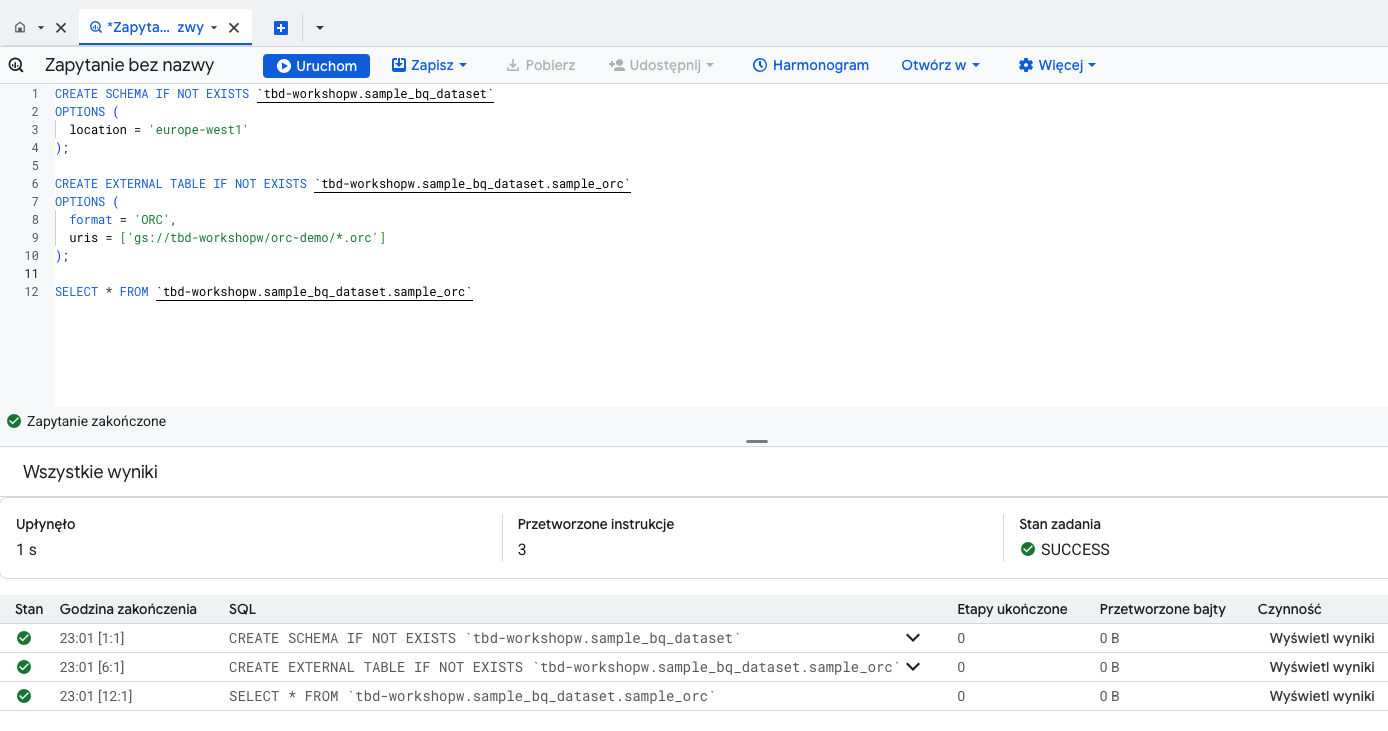
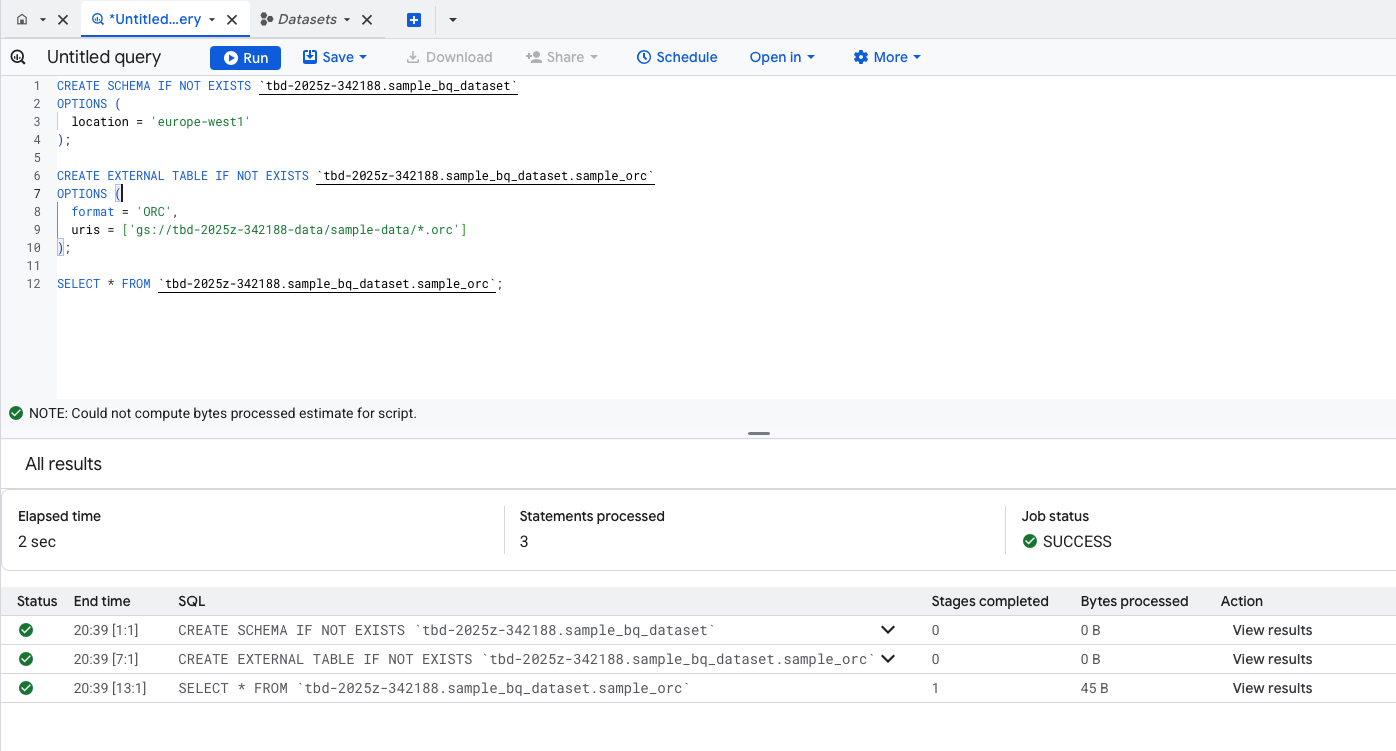
Fixed task 9

diff --git a/tasks-phase1.md b/tasks-phase1.md
@@ -99,10 +99,12 @@ The result is:
 
 9. Create a BigQuery dataset and an external table using SQL
 
+Before creating a BQ dataset and table, [sample orc files](https://www.filesampleshub.com/download/code/orc/sample1.zip) were placed in GCS bucket: `gs://tbd-2025z-342188-data/sample-data/`
+
 Creating a BigQuery dataset:
 
 ```sql
-CREATE SCHEMA IF NOT EXISTS `tbd-workshopw.sample_bq_dataset`
+CREATE SCHEMA IF NOT EXISTS `tbd-2025z-342188.sample_bq_dataset`
 OPTIONS (
   location = 'europe-west1'
 );
@@ -111,30 +113,36 @@ OPTIONS (
 Creating an external table referencing ORC files in GCS:
 
 ```sql
-CREATE EXTERNAL TABLE IF NOT EXISTS `tbd-workshopw.sample_bq_dataset.sample_orc`
+CREATE EXTERNAL TABLE IF NOT EXISTS `tbd-2025z-342188.sample_bq_dataset.sample_orc`
 OPTIONS (
   format = 'ORC',
-  uris = ['gs://tbd-workshopw/orc-demo/*.orc']
+  uris = ['gs://tbd-2025z-342188-data/sample-data/*.orc']
 );
 ```
 
 Querying the external table:
 
 ```sql
-SELECT * FROM `tbd-workshopw.sample_bq_dataset.sample_orc`
+SELECT * FROM `tbd-2025z-342188.sample_bq_dataset.sample_orc`;
 ```
 
 BigQuery operations:
 
 ![bq_operations.png](bq_operations.png)
 
-Output:
+Created dataset:
+![bq_dataset.png](bq_dataset.png)
 
-![bq_output.png](bq_output.png)
+Created external table:
+![bq_table.png](bq_table.png)
+
+Query result:
+
+![bq_query.png](bq_query.png)
    
 ***Why does ORC not require a table schema?***
 
-ORC doesn't require a table schema because it is a self-describing file format that contains metadata about the data structure within the file itself.
+ORC doesn't require a table schema because it is a self-describing file format that contains metadata about the data structure within the file itself. This allows systems like BigQuery to automatically infer the schema when reading ORC files, eliminating the need for a predefined schema during table creation.
 
 10. Find and correct the error in spark-job.py
 
